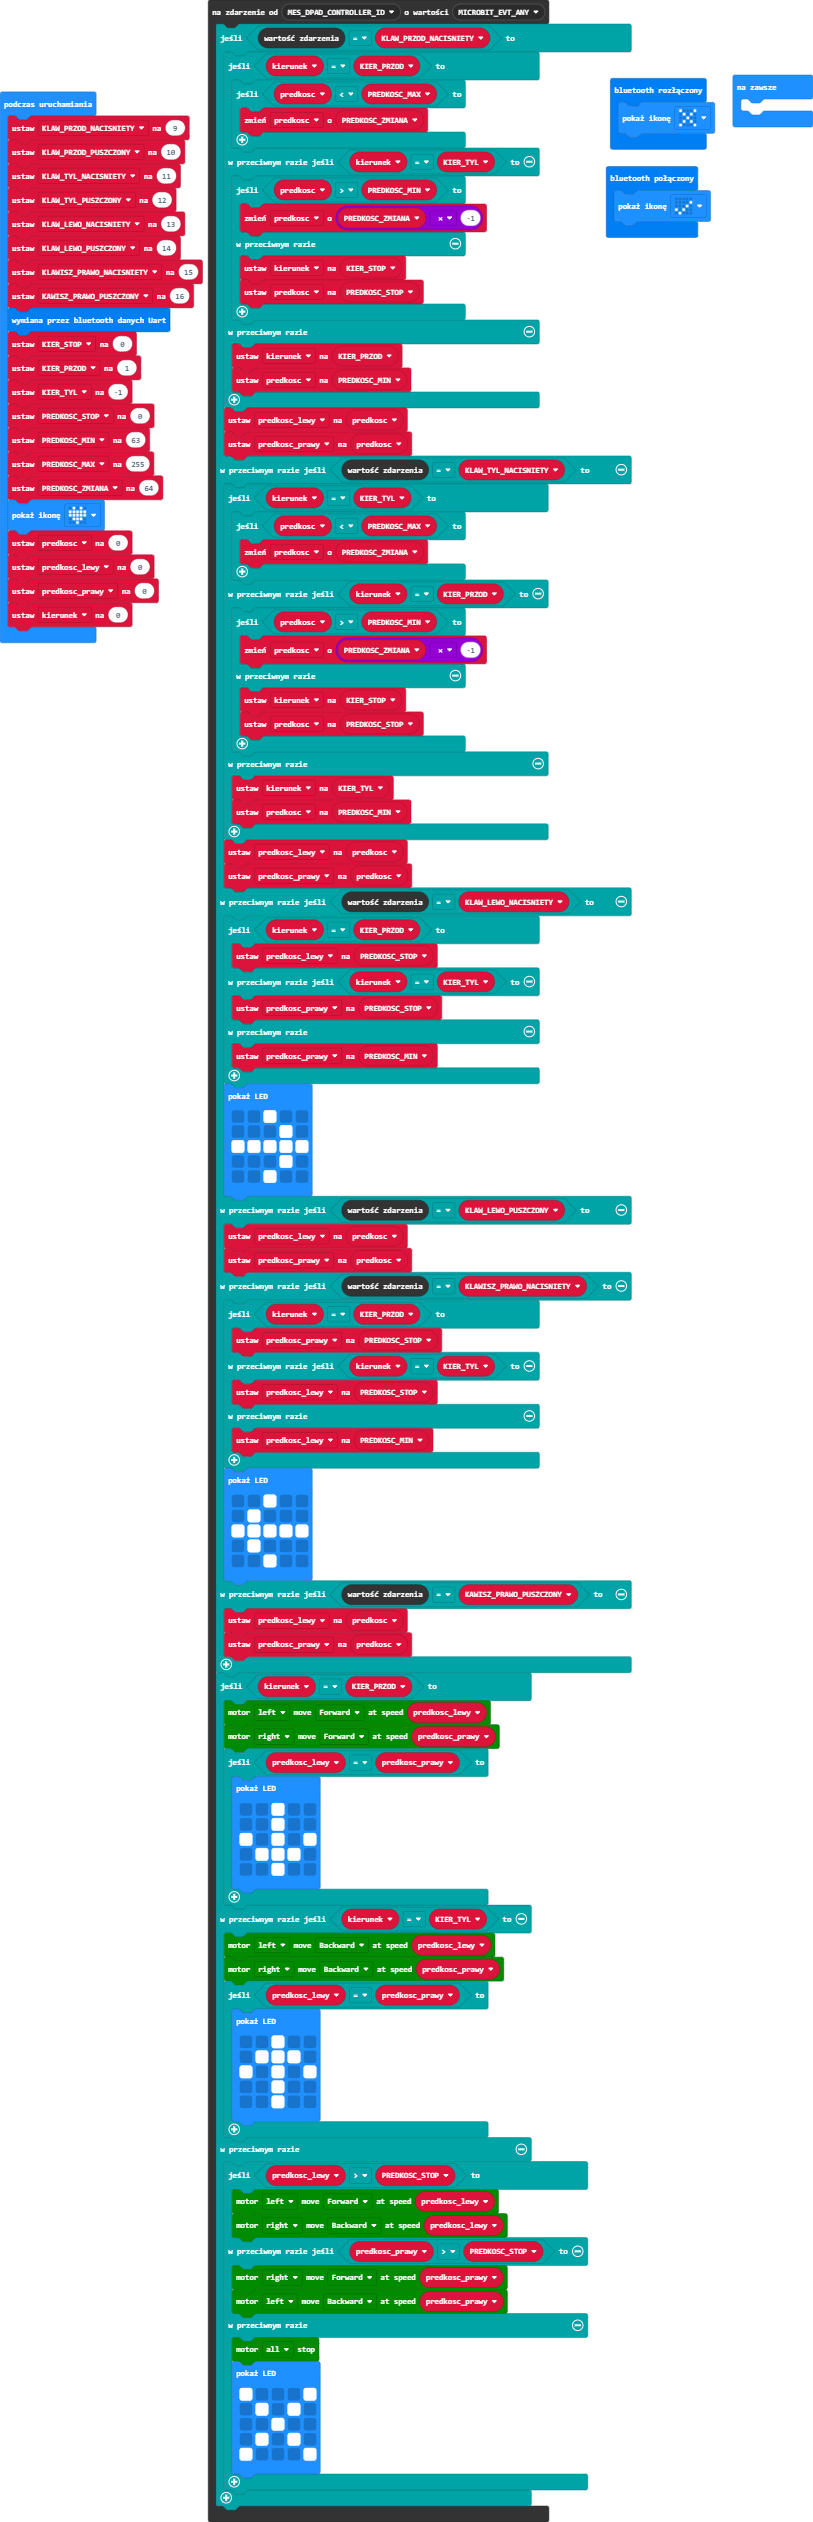
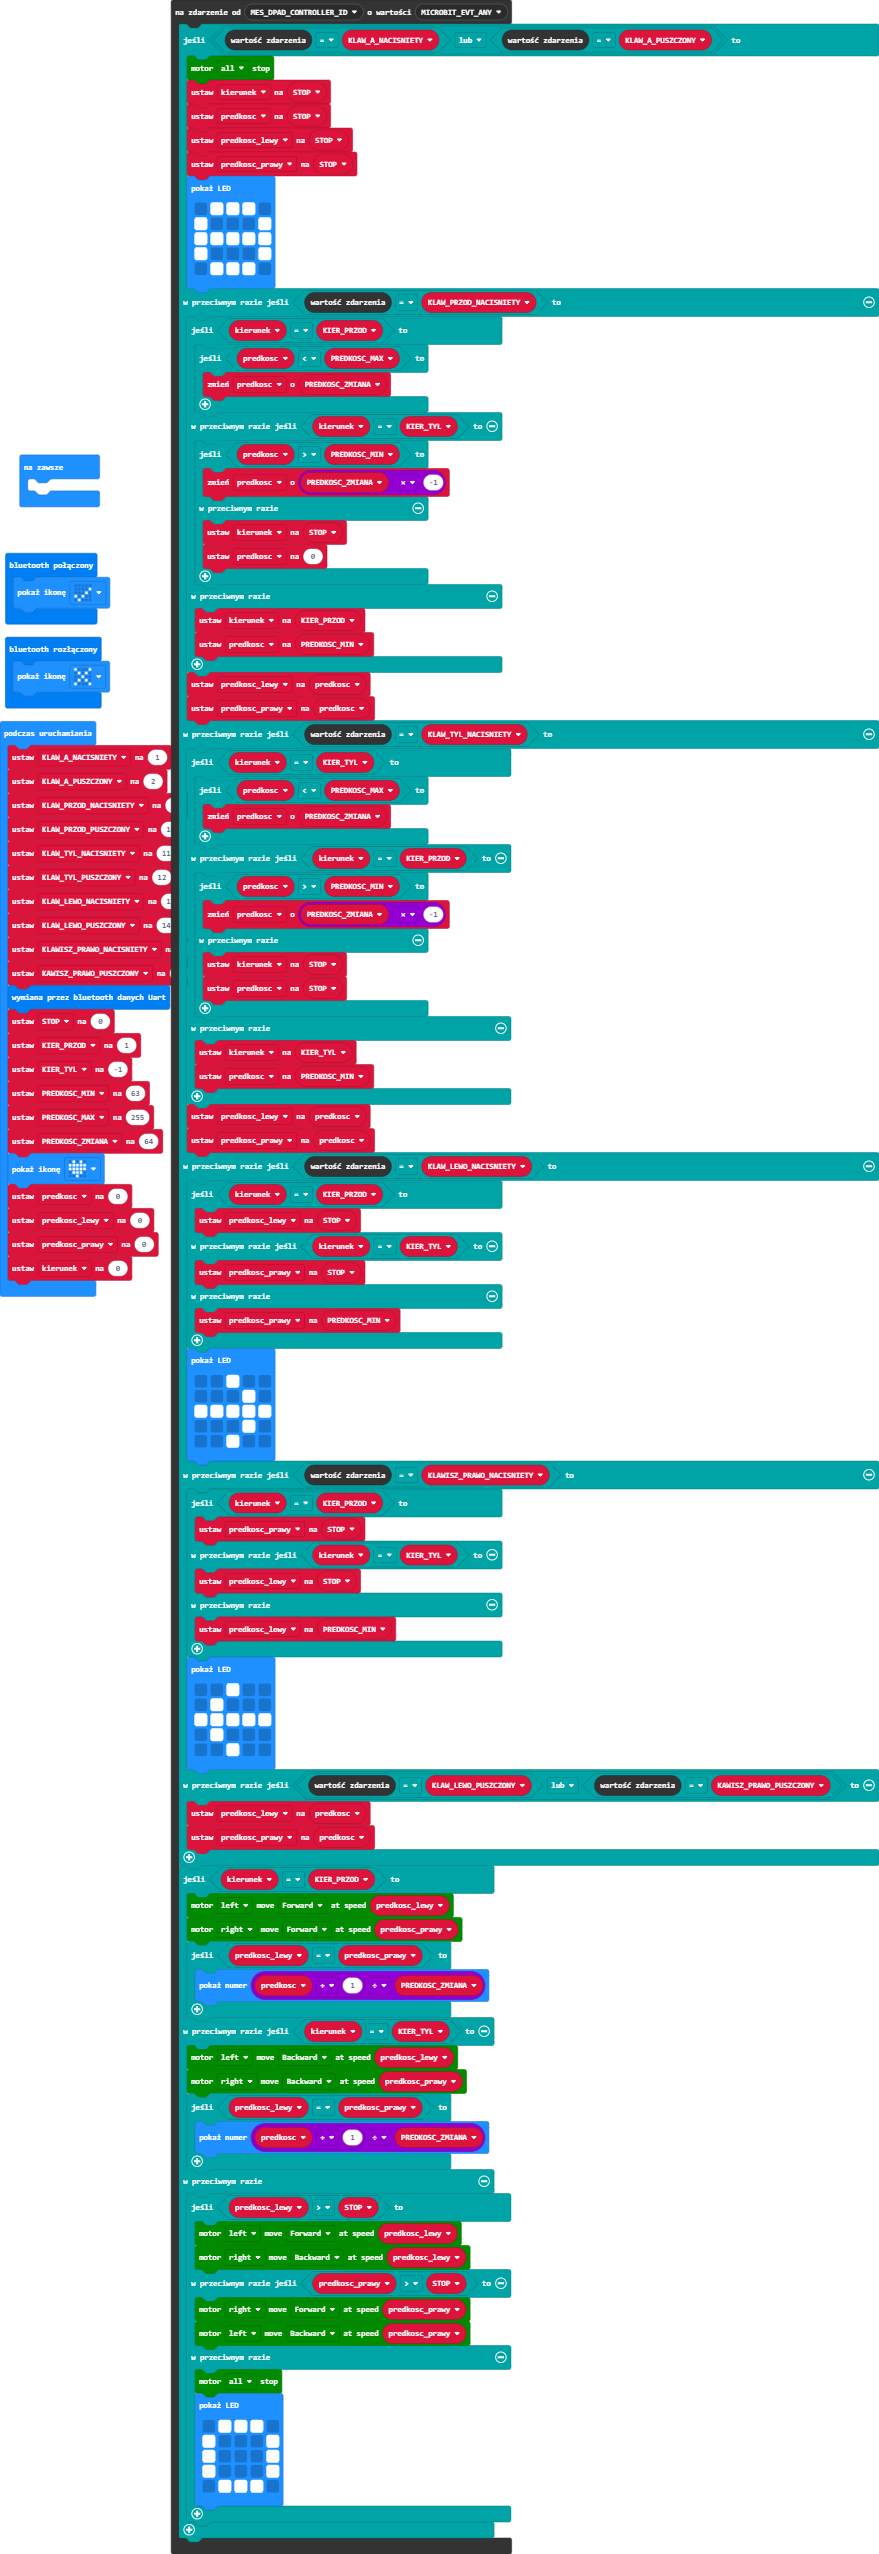
Wersja ze zmianą prędkości i hamowaniem

diff --git a/main.ts b/main.ts
@@ -5,7 +5,20 @@ bluetooth.onBluetoothDisconnected(function () {
     basic.showIcon(IconNames.No)
 })
 control.onEvent(EventBusSource.MES_DPAD_CONTROLLER_ID, EventBusValue.MICROBIT_EVT_ANY, function () {
-    if (control.eventValue() == KLAW_PRZOD_NACISNIETY) {
+    if (control.eventValue() == KLAW_A_NACISNIETY || control.eventValue() == KLAW_A_PUSZCZONY) {
+        maqueen.motorStop(maqueen.Motors.All)
+        kierunek = STOP
+        predkosc = STOP
+        predkosc_lewy = STOP
+        predkosc_prawy = STOP
+        basic.showLeds(`
+            . # # # .
+            # . . . #
+            # # # # #
+            # . . . #
+            . # # # .
+            `)
+    } else if (control.eventValue() == KLAW_PRZOD_NACISNIETY) {
         if (kierunek == KIER_PRZOD) {
             if (predkosc < PREDKOSC_MAX) {
                 predkosc += PREDKOSC_ZMIANA
@@ -14,8 +27,8 @@ control.onEvent(EventBusSource.MES_DPAD_CONTROLLER_ID, EventBusValue.MICROBIT_EV
             if (predkosc > PREDKOSC_MIN) {
                 predkosc += PREDKOSC_ZMIANA * -1
             } else {
-                kierunek = KIER_STOP
-                predkosc = PREDKOSC_STOP
+                kierunek = STOP
+                predkosc = 0
             }
         } else {
             kierunek = KIER_PRZOD
@@ -32,8 +45,8 @@ control.onEvent(EventBusSource.MES_DPAD_CONTROLLER_ID, EventBusValue.MICROBIT_EV
             if (predkosc > PREDKOSC_MIN) {
                 predkosc += PREDKOSC_ZMIANA * -1
             } else {
-                kierunek = KIER_STOP
-                predkosc = PREDKOSC_STOP
+                kierunek = STOP
+                predkosc = STOP
             }
         } else {
             kierunek = KIER_TYL
@@ -43,9 +56,9 @@ control.onEvent(EventBusSource.MES_DPAD_CONTROLLER_ID, EventBusValue.MICROBIT_EV
         predkosc_prawy = predkosc
     } else if (control.eventValue() == KLAW_LEWO_NACISNIETY) {
         if (kierunek == KIER_PRZOD) {
-            predkosc_lewy = PREDKOSC_STOP
+            predkosc_lewy = STOP
         } else if (kierunek == KIER_TYL) {
-            predkosc_prawy = PREDKOSC_STOP
+            predkosc_prawy = STOP
         } else {
             predkosc_prawy = PREDKOSC_MIN
         }
@@ -56,14 +69,11 @@ control.onEvent(EventBusSource.MES_DPAD_CONTROLLER_ID, EventBusValue.MICROBIT_EV
             . . . # .
             . . # . .
             `)
-    } else if (control.eventValue() == KLAW_LEWO_PUSZCZONY) {
-        predkosc_lewy = predkosc
-        predkosc_prawy = predkosc
     } else if (control.eventValue() == KLAWISZ_PRAWO_NACISNIETY) {
         if (kierunek == KIER_PRZOD) {
-            predkosc_prawy = PREDKOSC_STOP
+            predkosc_prawy = STOP
         } else if (kierunek == KIER_TYL) {
-            predkosc_lewy = PREDKOSC_STOP
+            predkosc_lewy = STOP
         } else {
             predkosc_lewy = PREDKOSC_MIN
         }
@@ -74,7 +84,7 @@ control.onEvent(EventBusSource.MES_DPAD_CONTROLLER_ID, EventBusValue.MICROBIT_EV
             . # . . .
             . . # . .
             `)
-    } else if (control.eventValue() == KAWISZ_PRAWO_PUSZCZONY) {
+    } else if (control.eventValue() == KLAW_LEWO_PUSZCZONY || control.eventValue() == KAWISZ_PRAWO_PUSZCZONY) {
         predkosc_lewy = predkosc
         predkosc_prawy = predkosc
     }
@@ -82,41 +92,29 @@ control.onEvent(EventBusSource.MES_DPAD_CONTROLLER_ID, EventBusValue.MICROBIT_EV
         maqueen.motorRun(maqueen.Motors.M1, maqueen.Dir.CW, predkosc_lewy)
         maqueen.motorRun(maqueen.Motors.M2, maqueen.Dir.CW, predkosc_prawy)
         if (predkosc_lewy == predkosc_prawy) {
-            basic.showLeds(`
-                . . # . .
-                . . # . .
-                # . # . #
-                . # # # .
-                . . # . .
-                `)
+            basic.showNumber((predkosc + 1) / PREDKOSC_ZMIANA)
         }
     } else if (kierunek == KIER_TYL) {
         maqueen.motorRun(maqueen.Motors.M1, maqueen.Dir.CCW, predkosc_lewy)
         maqueen.motorRun(maqueen.Motors.M2, maqueen.Dir.CCW, predkosc_prawy)
         if (predkosc_lewy == predkosc_prawy) {
-            basic.showLeds(`
-                . . # . .
-                . # # # .
-                # . # . #
-                . . # . .
-                . . # . .
-                `)
+            basic.showNumber((predkosc + 1) / PREDKOSC_ZMIANA)
         }
     } else {
-        if (predkosc_lewy > PREDKOSC_STOP) {
+        if (predkosc_lewy > STOP) {
             maqueen.motorRun(maqueen.Motors.M1, maqueen.Dir.CW, predkosc_lewy)
             maqueen.motorRun(maqueen.Motors.M2, maqueen.Dir.CCW, predkosc_lewy)
-        } else if (predkosc_prawy > PREDKOSC_STOP) {
+        } else if (predkosc_prawy > STOP) {
             maqueen.motorRun(maqueen.Motors.M2, maqueen.Dir.CW, predkosc_prawy)
             maqueen.motorRun(maqueen.Motors.M1, maqueen.Dir.CCW, predkosc_prawy)
         } else {
             maqueen.motorStop(maqueen.Motors.All)
             basic.showLeds(`
+                . # # # .
                 # . . . #
-                . # . # .
-                . . # . .
-                . # . # .
                 # . . . #
+                # . . . #
+                . # # # .
                 `)
         }
     }
@@ -128,16 +126,19 @@ let predkosc = 0
 let PREDKOSC_ZMIANA = 0
 let PREDKOSC_MAX = 0
 let PREDKOSC_MIN = 0
-let PREDKOSC_STOP = 0
 let KIER_TYL = 0
 let KIER_PRZOD = 0
-let KIER_STOP = 0
+let STOP = 0
 let KAWISZ_PRAWO_PUSZCZONY = 0
 let KLAWISZ_PRAWO_NACISNIETY = 0
 let KLAW_LEWO_PUSZCZONY = 0
 let KLAW_LEWO_NACISNIETY = 0
 let KLAW_TYL_NACISNIETY = 0
 let KLAW_PRZOD_NACISNIETY = 0
+let KLAW_A_PUSZCZONY = 0
+let KLAW_A_NACISNIETY = 0
+KLAW_A_NACISNIETY = 1
+KLAW_A_PUSZCZONY = 2
 KLAW_PRZOD_NACISNIETY = 9
 let KLAW_PRZOD_PUSZCZONY = 10
 KLAW_TYL_NACISNIETY = 11
@@ -147,10 +148,9 @@ KLAW_LEWO_PUSZCZONY = 14
 KLAWISZ_PRAWO_NACISNIETY = 15
 KAWISZ_PRAWO_PUSZCZONY = 16
 bluetooth.startUartService()
-KIER_STOP = 0
+STOP = 0
 KIER_PRZOD = 1
 KIER_TYL = -1
-PREDKOSC_STOP = 0
 PREDKOSC_MIN = 63
 PREDKOSC_MAX = 255
 PREDKOSC_ZMIANA = 64
